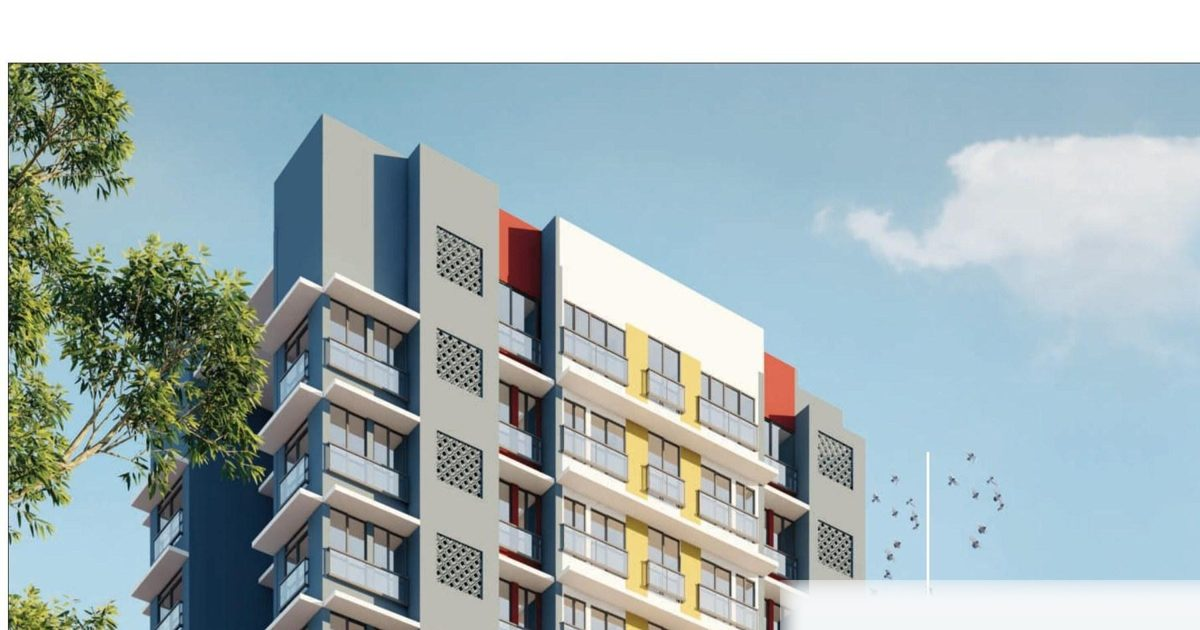
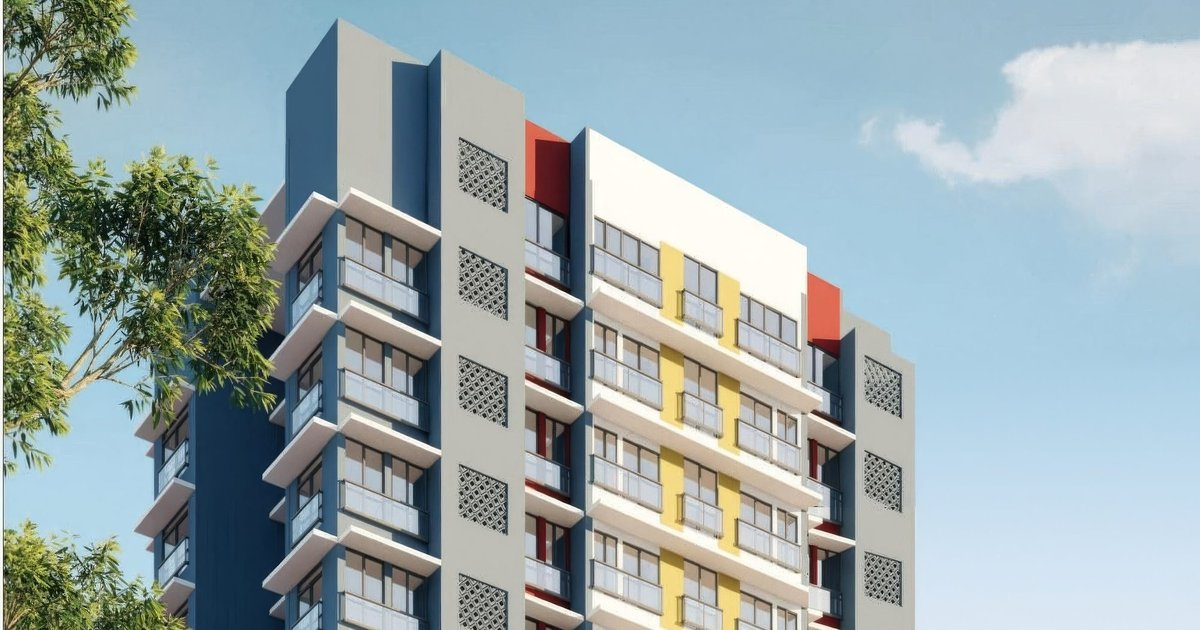
Mobile film captions, share image from the clean render, drop unused images
Claude-Session: https://claude.ai/code/session_01TxX64e1mGaJi81B751weWZ

diff --git a/app/(site)/site.css b/app/(site)/site.css
@@ -71,7 +71,7 @@ img,video{max-width:100%;display:block}
 .view{background:var(--slate);color:#fff}
 .film{position:relative;width:100%;aspect-ratio:3/1;max-height:78svh;overflow:hidden;background:#0d1a27}
 .film video,.film img{width:100%;height:100%;object-fit:cover;object-position:50% 0}
-@media(max-width:820px){.view>.film{aspect-ratio:16/9}}
+@media(max-width:820px){.view>.film{aspect-ratio:auto;overflow:visible}.view>.film video{aspect-ratio:16/9;height:auto}.film figcaption{position:static;padding:12px max(4.5vw,20px) 0;text-shadow:none;color:#C9D3DC;font-size:13px}}
 .film figcaption{position:absolute;left:max(4.5vw,20px);bottom:18px;right:max(4.5vw,20px);font-size:14px;color:#fff;text-shadow:0 1px 4px rgba(0,0,0,.6);max-width:60ch}
 .view .intro{padding:clamp(64px,8vw,120px) 0 clamp(40px,5vw,64px)}
 .view .intro h2{max-width:14ch}
